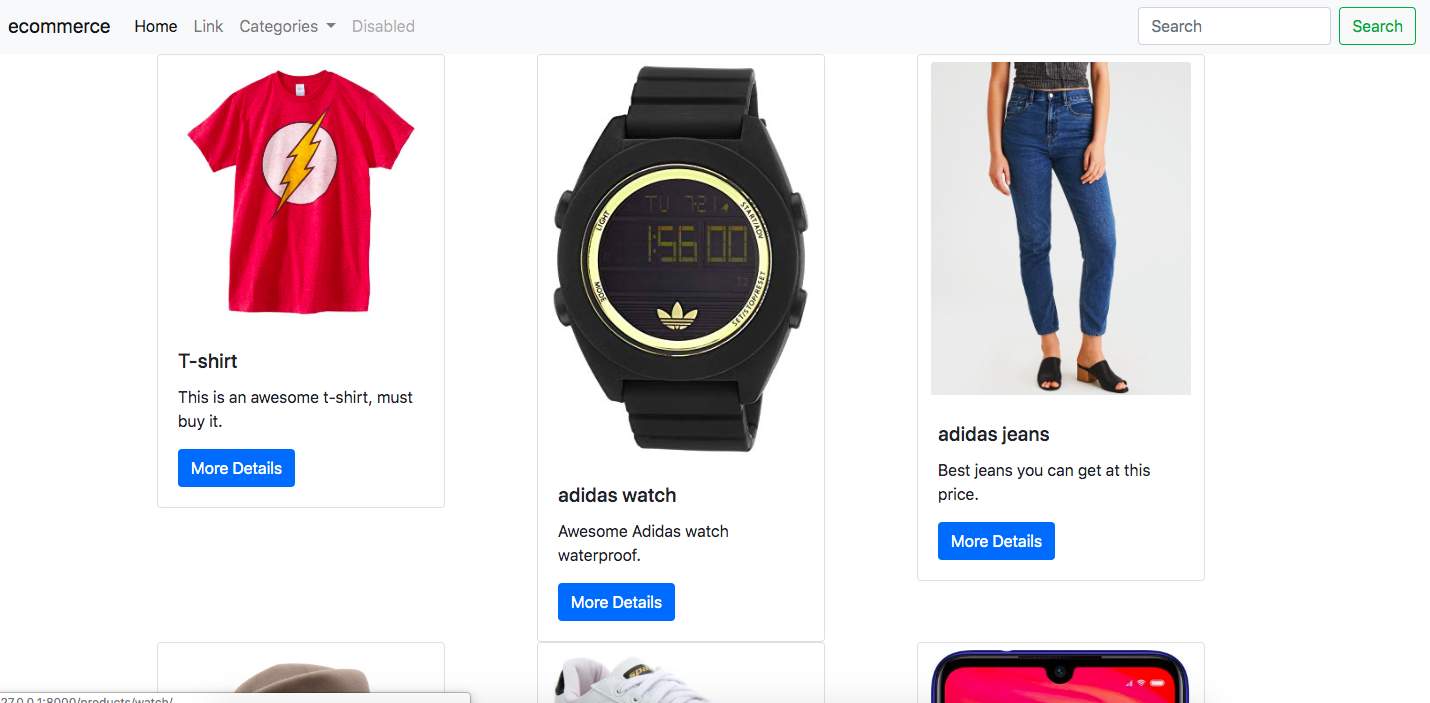
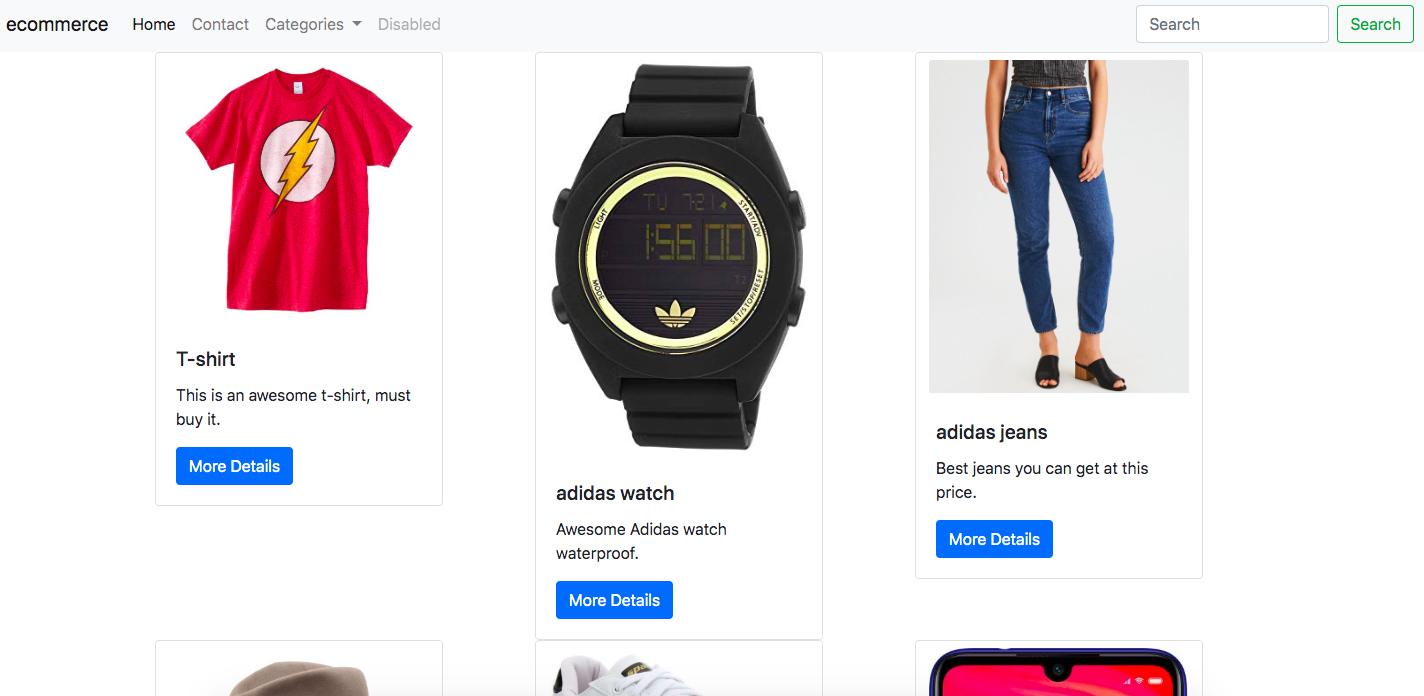
added reverse name in all urls and navbar changes

diff --git a/templates/base/navbar.html b/templates/base/navbar.html
@@ -1,9 +1,13 @@
-<nav class="navbar navbar-expand-lg navbar-light bg-light">
-    <a class="navbar-brand" href="#">
+{% url 'home' as home_url %}
+{% url 'contact' as contact_url %}
+{% url 'products:list' as product_list_url %}
+
+<nav class="navbar navbar-expand navbar-light bg-light">
+    <a class="navbar-brand" href="{{ home_url }}">
         {% if brand_name %}
             {{ brand_name }}
         {% else  %}
-            Ecommerce
+            E-Commerce
         {% endif %}
     </a>
     <button class="navbar-toggler" type="button" data-toggle="collapse" data-target="#navbarSupportedContent" aria-controls="navbarSupportedContent" aria-expanded="false" aria-label="Toggle navigation">
@@ -12,11 +16,11 @@
   
     <div class="collapse navbar-collapse" id="navbarSupportedContent">
       <ul class="navbar-nav mr-auto">
-        <li class="nav-item active">
-          <a class="nav-link" href="#">Home <span class="sr-only">(current)</span></a>
+        <li class="nav-item {% if request.path == home_url %} active {% endif %}">
+          <a class="nav-link" href="{{ home_url }}">Home <span class="sr-only">(current)</span></a>
         </li>
-        <li class="nav-item">
-          <a class="nav-link" href="#">Link</a>
+        <li class="nav-item {% if request.path == contact_url %} active {% endif %}">
+          <a class="nav-link" href="{{ contact_url }}">Contact</a>
         </li>
         <li class="nav-item dropdown">
           <a class="nav-link dropdown-toggle" href="#" id="navbarDropdown" role="button" data-toggle="dropdown" aria-haspopup="true" aria-expanded="false">
@@ -25,17 +29,18 @@
           <div class="dropdown-menu" aria-labelledby="navbarDropdown">
             <a class="dropdown-item" href="#">Action</a>
             <a class="dropdown-item" href="#">Another action</a>
-            <div class="dropdown-divider"></div>
-            <a class="dropdown-item" href="#">Something else here</a>
+            <a class="dropdown-item" href="#">Something else</a>
           </div>
         </li>
-        <li class="nav-item">
-          <a class="nav-link disabled" href="#">Disabled</a>
+        <li class="nav-item {% if request.path == product_list_url %} active {% endif %}">
+          <a class="nav-link" href="{{ product_list_url }}">Products</a>
         </li>
       </ul>
       <form class="form-inline my-2 my-lg-0">
         <input class="form-control mr-sm-2" type="search" placeholder="Search" aria-label="Search">
         <button class="btn btn-outline-success my-2 my-sm-0" type="submit">Search</button>
       </form>
+      <a class="nav-link" href="{% url 'login' %}">Logout</a>
     </div>
+    
   </nav>

diff --git a/ecommerce/views.py b/ecommerce/views.py
@@ -1,10 +1,13 @@
-# authentication
+# for authentication
 from django.contrib.auth import authenticate, login, get_user_model
 from django.http import HttpResponse
 from django.shortcuts import render, redirect
 
 from ecommerce.forms import ContactForm, LoginForm, RegisterForm
 
+# Function based views
+
+# home view
 def home_page(request):
     home_page_context = {
         "title": "Home Page!!",
@@ -18,6 +21,7 @@ def home_page(request):
     else:
         return redirect('/login')
 
+# about view
 def about_page(request):
     context = {
         "title": "About Page!!",
@@ -25,6 +29,7 @@ def about_page(request):
     }
     return render(request, "about_page.html", context)
 
+# contact view
 def contact_page(request):
     # django inbuilt form
     contact_form = ContactForm(request.POST or None)
@@ -41,15 +46,16 @@ def contact_page(request):
     else:
         return redirect('/login')
 
+# login view
 def login_page(request):
     login_form = LoginForm(request.POST or None)
     context = {
         "form": login_form
     }
     print("Is User authenticated?",request.user.is_authenticated())
-    # if user is authenticated redirect him to home page
+    # if user is authenticated redirect to home page
     if request.user.is_authenticated():
-        #print("user is",request.user)
+        # print("user is",request.user)
         return redirect('/')
     if login_form.is_valid():
         print("login form cleaned data is:",login_form.cleaned_data)
@@ -67,8 +73,19 @@ def login_page(request):
             return redirect('/login')
     return render(request, "auth/login.html", context)
 
+# logout view
+def logout_page(request):
+    if request.user.is_authenticated():
+        print("user is",request.user)
+        logout(request)
+        redirect('/login')
+    else:
+        redirect('/login')
+
 # get django built-in user_model
 User = get_user_model()
+
+# register page view
 def register_page(request):
     # check user authentication if user is already logged in then navigate him/her to the login page if authenticated.
     register_form = RegisterForm(request.POST or None)

diff --git a/ecommerce/urls.py b/ecommerce/urls.py
@@ -14,7 +14,7 @@ Including another URLconf
     2. Add a URL to urlpatterns:  url(r'^blog/', include('blog.urls'))
 """
 
-from django.conf.urls import url, include
+from django.conf.urls import url,include
 from django.contrib import admin
 from django.conf.urls.static import static
 from django.conf import settings
@@ -24,16 +24,18 @@ from ecommerce.views import (
     contact_page, 
     home_page, 
     login_page,
-    register_page
-    )
+    register_page,
+    logout_page
+)
 
 urlpatterns = [
     url(r'^admin/', admin.site.urls),
-    url(r'^$', home_page),
-    url(r'^contact/$', contact_page),
-    url(r'^about/$', about_page),
-    url(r'^login/$', login_page),
-    url(r'^register/$', register_page),
+    url(r'^$', home_page, name='home'),
+    url(r'^contact/$', contact_page, name='contact'),
+    url(r'^about/$', about_page, name='about'),
+    url(r'^login/$', login_page, name='login'),
+    url(r'^logout/$', logout_page, name='logout'),
+    url(r'^register/$', register_page, name='register'),
     url(r'', include("products.urls", namespace='products')),
 ]
 

diff --git a/products/urls.py b/products/urls.py
@@ -8,14 +8,14 @@ from products.views import (
     ProductFeaturedListView,
     ProductFeaturedDetailView,
     ProductDetailSlugView
-    )
+)
 
 urlpatterns = [
-    url(r'^featured/$', ProductFeaturedListView.as_view()),
-    url(r'^featured/(?P<pk>\d+)/$', ProductFeaturedDetailView.as_view()),
+    url(r'^featured/$', ProductFeaturedListView.as_view(), name='featured'),
+    url(r'^featured/(?P<pk>\d+)/$', ProductFeaturedDetailView.as_view(), name='featured-details'),
     url(r'^products/$', ProductListView.as_view(), name='list'),
-    url(r'^products-fbv/$', product_list_view),
-    url(r'^products/(?P<pk>\d+)/$', ProductDetailView.as_view()),
+    url(r'^products-fbv/$', product_list_view, name='fbv-list'),
+    url(r'^products/(?P<pk>\d+)/$', ProductDetailView.as_view(), name='detail'),
     url(r'^products/(?P<slug>[\w-]+)/$', ProductDetailSlugView.as_view(), name='detail'),
-    url(r'^products-fbv/(?P<pk>\d+)/$', product_detail_view),
+    url(r'^products-fbv/(?P<pk>\d+)/$', product_detail_view, 'fbv-detail'),
 ]
